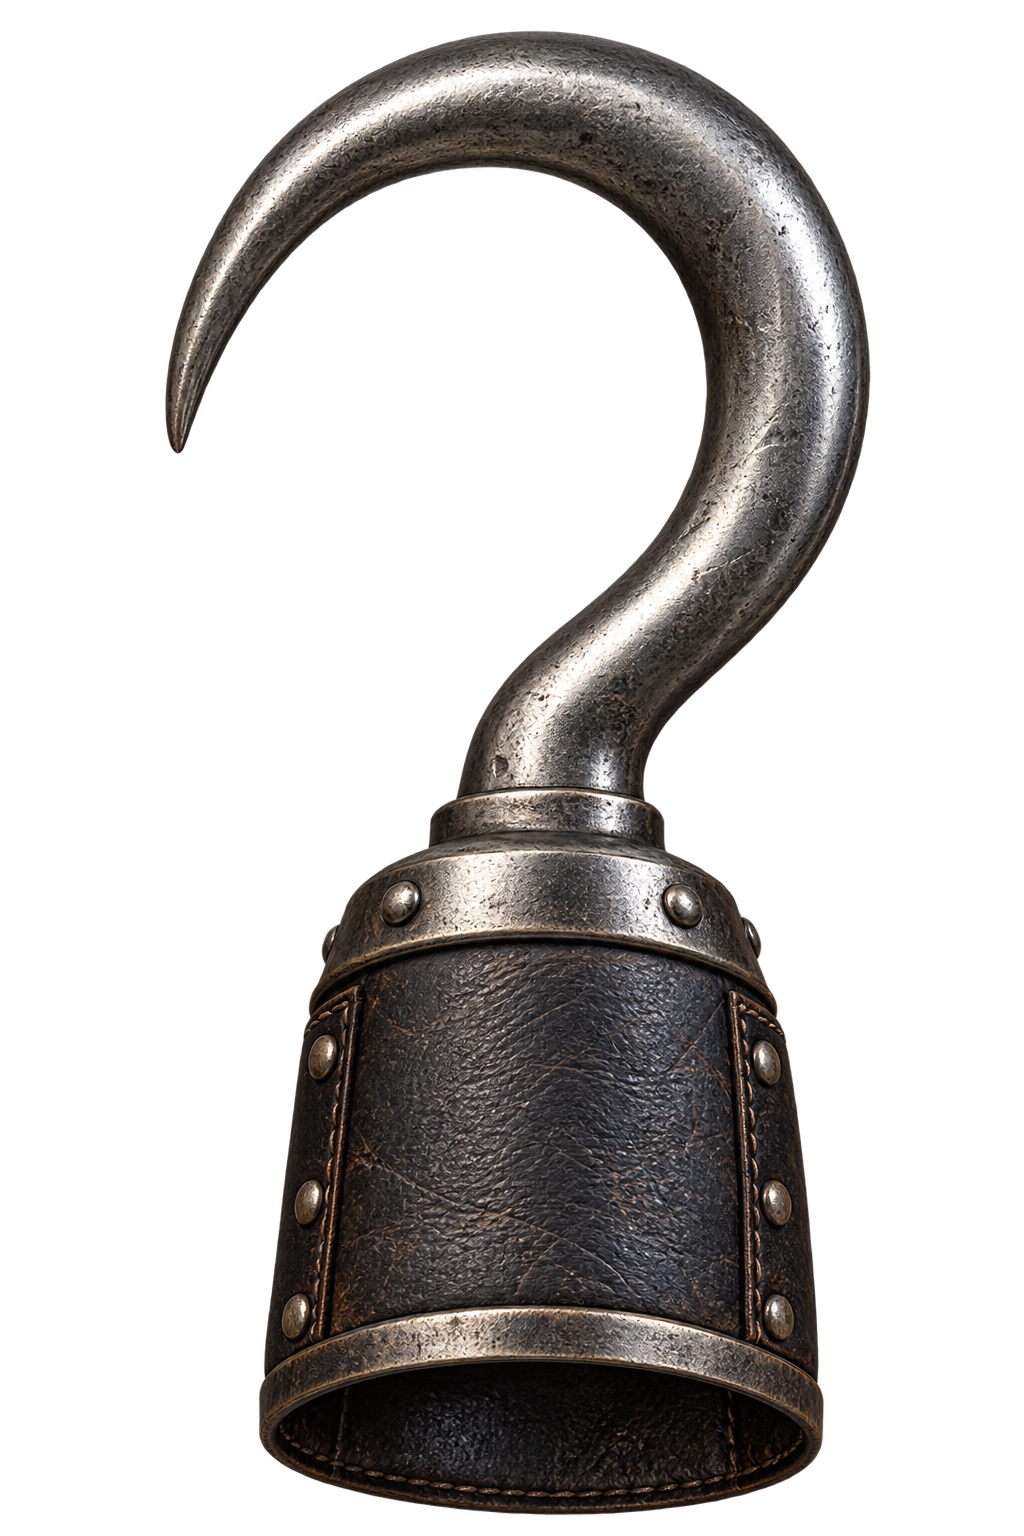
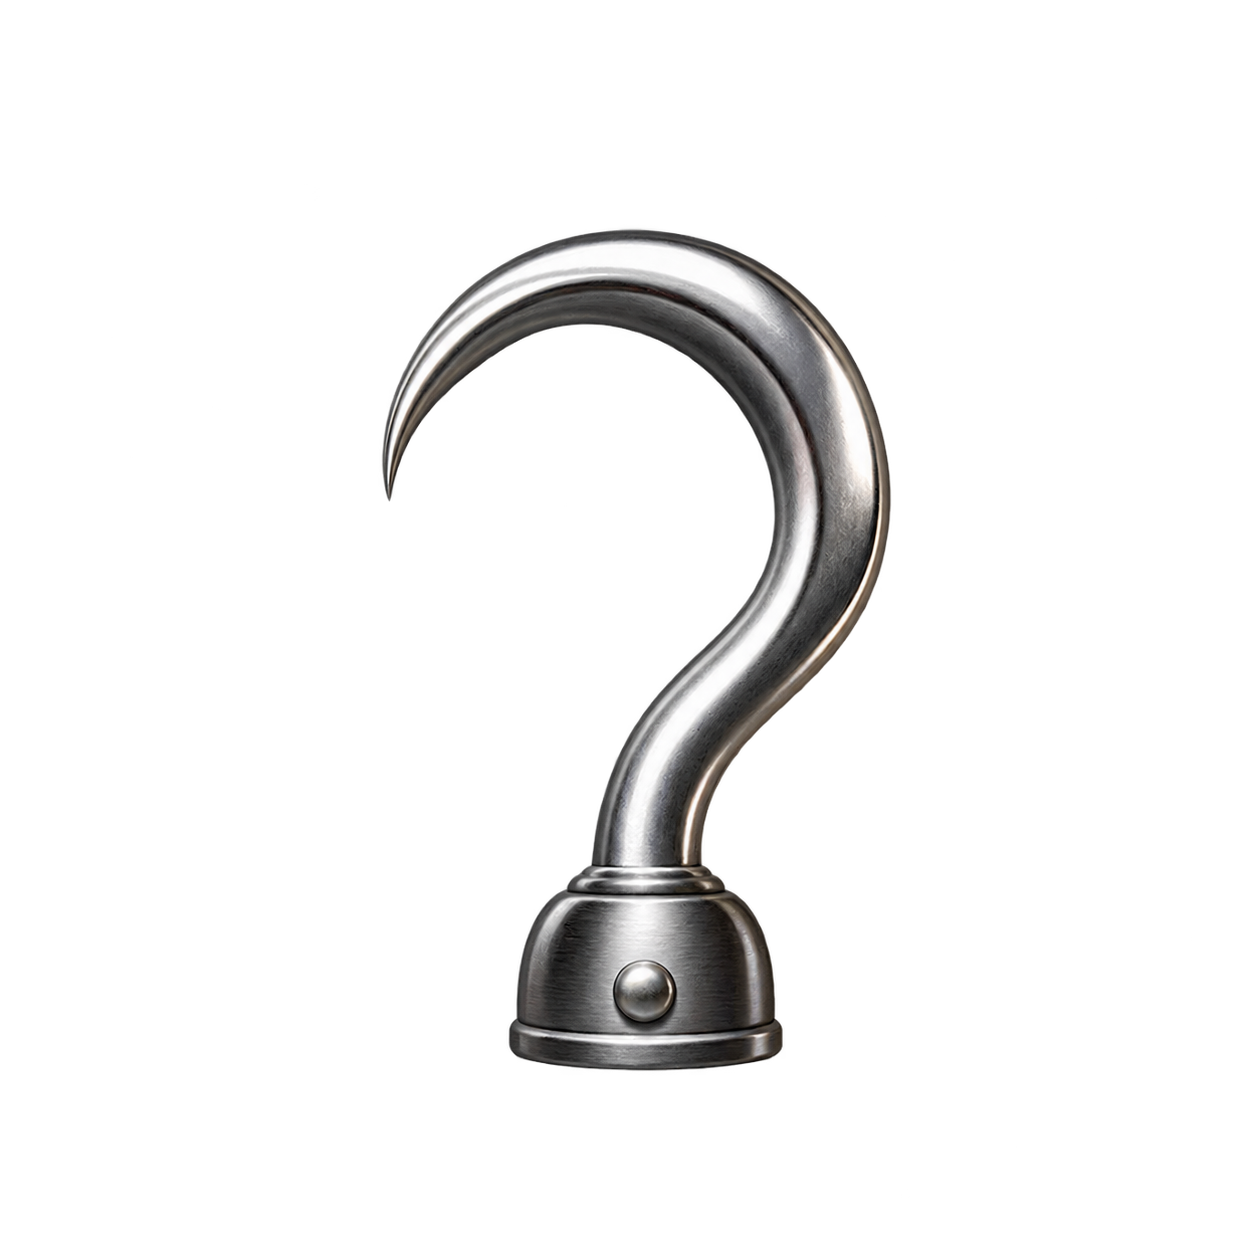
feat: replace custom cursor with pirate hook

diff --git a/client/src/components/PirateCursor.jsx b/client/src/components/PirateCursor.jsx
@@ -1,9 +1,13 @@
 import React, { useEffect, useRef } from "react";
 
+const HOOK_HOTSPOT = {
+  x: 10,
+  y: 13,
+};
+
 export default function PirateCursor() {
   const cursorRef = useRef(null);
   const iconRef = useRef(null);
-  const glintRef = useRef(null);
 
   useEffect(() => {
     if (typeof window === "undefined" || window.matchMedia("(pointer: coarse)").matches) {
@@ -12,8 +16,7 @@ export default function PirateCursor() {
 
     const cursorEl = cursorRef.current;
     const iconEl = iconRef.current;
-    const glintEl = glintRef.current;
-    if (!cursorEl) return;
+    if (!cursorEl || !iconEl) return;
 
     let mouseX = -100;
     let mouseY = -100;
@@ -24,12 +27,11 @@ export default function PirateCursor() {
     let isHovered = false;
     let isMouseDown = false;
 
-    const updateTransform = () => {
-      if (!iconEl) return;
+    const updateIconTransform = () => {
       if (isMouseDown) {
-        iconEl.style.transform = "scale(0.9) rotate(-6deg)";
+        iconEl.style.transform = "scale(0.9) rotate(-7deg)";
       } else if (isHovered) {
-        iconEl.style.transform = "scale(1.15) rotate(-4deg)";
+        iconEl.style.transform = "scale(1.14) rotate(-4deg)";
       } else {
         iconEl.style.transform = "scale(1) rotate(0deg)";
       }
@@ -39,7 +41,7 @@ export default function PirateCursor() {
       const dx = mouseX - currentX;
       const dy = mouseY - currentY;
 
-      // If cursor has caught up to mouse position, snap and sleep loop (0% idle CPU)
+      // Snap once the cursor is effectively caught up, then stop the RAF loop.
       if (Math.abs(dx) < 0.2 && Math.abs(dy) < 0.2) {
         currentX = mouseX;
         currentY = mouseY;
@@ -50,20 +52,19 @@ export default function PirateCursor() {
 
       currentX += dx * 0.85;
       currentY += dy * 0.85;
-
       cursorEl.style.transform = `translate3d(${currentX}px, ${currentY}px, 0)`;
       animFrameId = requestAnimationFrame(renderLoop);
     };
 
-    const handleMouseMove = (e) => {
+    const handleMouseMove = (event) => {
       if (!isVisible) {
         isVisible = true;
         cursorEl.style.opacity = "1";
       }
-      mouseX = e.clientX;
-      mouseY = e.clientY;
 
-      // Wake up render loop if asleep
+      mouseX = event.clientX;
+      mouseY = event.clientY;
+
       if (!animFrameId) {
         animFrameId = requestAnimationFrame(renderLoop);
       }
@@ -71,17 +72,18 @@ export default function PirateCursor() {
 
     const handleMouseDown = () => {
       isMouseDown = true;
-      updateTransform();
+      updateIconTransform();
     };
 
     const handleMouseUp = () => {
       isMouseDown = false;
-      updateTransform();
+      updateIconTransform();
     };
 
-    const handleMouseOver = (e) => {
-      const target = e.target;
+    const handleMouseOver = (event) => {
+      const target = event.target;
       if (!target || !target.tagName) return;
+
       const tag = target.tagName;
       const interactive =
         tag === "BUTTON" ||
@@ -89,28 +91,22 @@ export default function PirateCursor() {
         tag === "INPUT" ||
         tag === "SELECT" ||
         tag === "TEXTAREA" ||
-        Boolean(target.closest && target.closest("a, button, [role='button'], .cursor-pointer"));
+        Boolean(target.closest?.("a, button, [role='button'], .cursor-pointer"));
 
       if (interactive !== isHovered) {
         isHovered = interactive;
-        if (iconEl) {
-          iconEl.src = isHovered ? "/steampunk-cursor-hover.png" : "/steampunk-cursor.png";
-        }
-        if (glintEl) {
-          glintEl.style.display = isHovered ? "block" : "none";
-        }
-        updateTransform();
+        updateIconTransform();
       }
     };
 
     const handleMouseLeave = () => {
       isVisible = false;
-      if (cursorEl) cursorEl.style.opacity = "0";
+      cursorEl.style.opacity = "0";
     };
 
     const handleMouseEnter = () => {
       isVisible = true;
-      if (cursorEl) cursorEl.style.opacity = "1";
+      cursorEl.style.opacity = "1";
     };
 
     window.addEventListener("mousemove", handleMouseMove, { passive: true });
@@ -119,8 +115,6 @@ export default function PirateCursor() {
     document.addEventListener("mouseover", handleMouseOver, { passive: true });
     document.addEventListener("mouseleave", handleMouseLeave);
     document.addEventListener("mouseenter", handleMouseEnter);
-
-    animFrameId = requestAnimationFrame(renderLoop);
 
     return () => {
       window.removeEventListener("mousemove", handleMouseMove);
@@ -136,27 +130,30 @@ export default function PirateCursor() {
   return (
     <div
       ref={cursorRef}
-      className="fixed top-0 left-0 pointer-events-none z-[999999] hidden md:block select-none opacity-0 transition-opacity duration-200"
+      aria-hidden="true"
+      className="fixed top-0 left-0 pointer-events-none z-[999999] hidden md:block select-none opacity-0 transition-opacity duration-150"
       style={{
         transform: "translate3d(-100px, -100px, 0)",
         willChange: "transform",
       }}
     >
-      <div className="relative -ml-1 -mt-1 origin-top-left transition-transform duration-150 ease-out">
+      <div
+        className="relative"
+        style={{
+          transform: `translate(-${HOOK_HOTSPOT.x}px, -${HOOK_HOTSPOT.y}px)`,
+        }}
+      >
         <img
           ref={iconRef}
-          src="/steampunk-cursor.png"
-          alt="Steampunk Cursor"
-          className="w-6 h-auto object-contain filter drop-shadow-[0_2px_8px_rgba(0,0,0,0.85)] drop-shadow-[0_0_6px_rgba(217,119,6,0.35)] select-none pointer-events-none origin-top-left transition-transform duration-150 ease-out"
-        />
-
-        {/* Dynamic golden steampunk steam / glint pulse on hover */}
-        <div
-          ref={glintRef}
-          className="absolute top-0 left-0 w-3 h-3 bg-[#FFE79A] rounded-full filter blur-[2px] animate-ping opacity-75 pointer-events-none hidden"
+          src="/hook-cursor.png"
+          alt=""
+          draggable="false"
+          className="block w-[34px] h-[34px] object-contain select-none pointer-events-none transition-transform duration-150 ease-out filter drop-shadow-[0_2px_5px_rgba(0,0,0,0.7)] drop-shadow-[0_0_3px_rgba(226,232,240,0.22)]"
+          style={{
+            transformOrigin: `${HOOK_HOTSPOT.x}px ${HOOK_HOTSPOT.y}px`,
+          }}
         />
       </div>
     </div>
   );
 }
-
